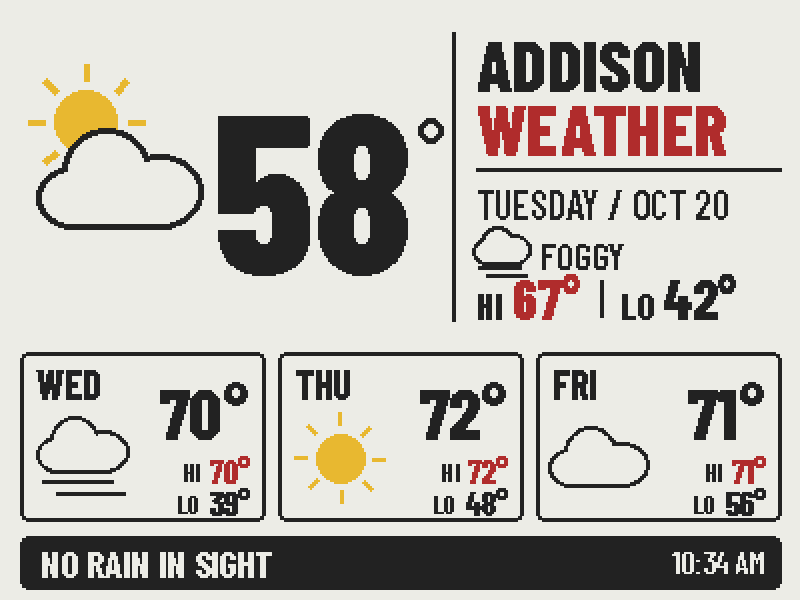
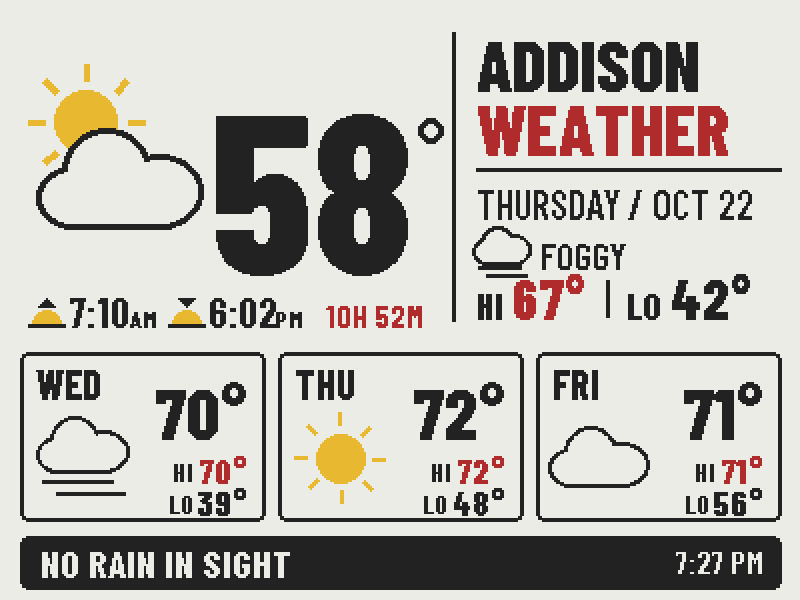
Add sunrise, sunset and daylight row under the hero temperature
Fetch sunrise/sunset from Open-Meteo and draw them beneath the current
temperature with up/down sun markers, followed by the daylight total in
red, matching the updated board mockup. Adds unit tests for the time and
daylight helpers and the drawn row.

diff --git a/renderer/render.py b/renderer/render.py
@@ -45,7 +45,7 @@ def fetch_live():
         "https://api.open-meteo.com/v1/forecast"
         f"?latitude={LAT}&longitude={LON}"
         "&current=temperature_2m,weather_code,is_day"
-        "&daily=weather_code,temperature_2m_max,temperature_2m_min,precipitation_probability_max"
+        "&daily=weather_code,temperature_2m_max,temperature_2m_min,precipitation_probability_max,sunrise,sunset"
         "&temperature_unit=fahrenheit&timezone=America%2FChicago&forecast_days=5"
     )
     req = urllib.request.Request(url, headers={"User-Agent": "note4c-weather/1.0"})
@@ -153,6 +153,15 @@ def umbrella(d, cx, cy, r):
     d.line([cx, cy - r * 0.05, cx, cy + r * 0.55], fill=BLACK, width=2)
 
 
+def sun_marker(d, x, y, rising):
+    """Sunrise/sunset glyph in an 18 x 16 box at (x, y): arrow, yellow half-disc, horizon line."""
+    cx = x + 9
+    tri = [(cx - 4, y + 5), (cx + 4, y + 5), (cx, y + 1)] if rising else [(cx - 4, y + 1), (cx + 4, y + 1), (cx, y + 5)]
+    d.polygon(tri, fill=BLACK)
+    d.pieslice([cx - 7, y + 7, cx + 7, y + 21], 180, 360, fill=YELLOW)
+    d.line([x, y + 14, x + 18, y + 14], fill=BLACK, width=2)
+
+
 # ---------------------------------------------------------------- text helpers
 def text(d, xy, s, f, fill=BLACK, anchor="la"):
     d.text(xy, s, font=f, fill=fill, anchor=anchor)
@@ -161,6 +170,18 @@ def text(d, xy, s, f, fill=BLACK, anchor="la"):
 
 def deg(n):
     return f"{round(n)}°"
+
+
+def clock_parts(iso):
+    """'2026-10-22T07:12' -> ('7:12', 'AM')"""
+    t = datetime.fromisoformat(iso)
+    return t.strftime("%-I:%M"), t.strftime("%p")
+
+
+def daylight_label(sunrise, sunset):
+    """Daylight between two local ISO timestamps, e.g. '10H 47M'."""
+    mins = round((datetime.fromisoformat(sunset) - datetime.fromisoformat(sunrise)).total_seconds() / 60)
+    return f"{mins // 60}H {mins % 60:02d}M"
 
 
 # ---------------------------------------------------------------- banner logic
@@ -202,6 +223,18 @@ def render(data):
     l, tp, r, _ = d.textbbox((206, 92), t, font=tf, anchor="rm")
     text(d, (206, 92), t, tf, anchor="rm")
     d.ellipse([r + 3, tp + 2, r + 15, tp + 14], outline=BLACK, width=3)
+
+    # --- sunrise / sunset / daylight, under the hero
+    if days.get("sunrise") and days.get("sunset"):
+        sr, ss = days["sunrise"][0], days["sunset"][0]
+        y, x = 164, 14  # baseline, left edge
+        for iso, rising in ((sr, True), (ss, False)):
+            sun_marker(d, x, y - 16, rising)
+            x += 20
+            hm, ap = clock_parts(iso)
+            x += text(d, (x, y), hm, font(700, 20), anchor="ls") + 1
+            x += text(d, (x, y), ap, font(700, 12), anchor="ls") + 6
+        text(d, (212, y), daylight_label(sr, ss), font(800, 15), fill=RED, anchor="rs")
 
     # divider
     d.line([226, 16, 226, 160], fill=BLACK, width=2)

diff --git a/renderer/test_render.py b/renderer/test_render.py
@@ -1,0 +1,62 @@
+"""Tests for the renderer. Run: python3 -m unittest -v test_render"""
+import json
+import os
+import sys
+import unittest
+
+HERE = os.path.dirname(os.path.abspath(__file__))
+sys.path.insert(0, HERE)
+import render  # noqa: E402
+
+SUNRISE, SUNSET = "2026-10-22T07:12", "2026-10-22T17:59"
+# Band under the hero temperature that the sun row occupies (x0, y0, x1, y1)
+SUN_STRIP = (0, 140, 222, 174)
+
+
+def sample(with_sun=True):
+    with open(os.path.join(HERE, "sample.json")) as f:
+        d = json.load(f)
+    d["daily"].pop("sunrise", None)
+    d["daily"].pop("sunset", None)
+    if with_sun:
+        d["daily"]["sunrise"] = [f"{t}T07:12" for t in d["daily"]["time"]]
+        d["daily"]["sunset"] = [f"{t}T17:59" for t in d["daily"]["time"]]
+    return d
+
+
+def colors_in(img, box):
+    px = img.load()
+    x0, y0, x1, y1 = box
+    return {px[x, y] for y in range(y0, y1) for x in range(x0, x1)}
+
+
+class ClockParts(unittest.TestCase):
+    def test_morning_time_drops_leading_zero(self):
+        self.assertEqual(render.clock_parts(SUNRISE), ("7:12", "AM"))
+
+    def test_evening_time_uses_twelve_hour_clock(self):
+        self.assertEqual(render.clock_parts(SUNSET), ("5:59", "PM"))
+
+
+class DaylightLabel(unittest.TestCase):
+    def test_hours_and_minutes_between_sunrise_and_sunset(self):
+        self.assertEqual(render.daylight_label(SUNRISE, SUNSET), "10H 47M")
+
+    def test_minutes_are_zero_padded(self):
+        self.assertEqual(render.daylight_label("2026-06-21T05:16", "2026-06-21T20:23"), "15H 07M")
+
+
+class SunRow(unittest.TestCase):
+    def test_sun_icons_are_drawn_in_yellow_under_the_hero(self):
+        self.assertIn(render.YELLOW, colors_in(render.render(sample()), SUN_STRIP))
+
+    def test_daylight_total_is_drawn_in_red_under_the_hero(self):
+        self.assertIn(render.RED, colors_in(render.render(sample()), SUN_STRIP))
+
+    def test_strip_stays_blank_when_feed_has_no_sunrise(self):
+        # Regression guard: an old feed without sunrise/sunset must still render.
+        self.assertEqual(colors_in(render.render(sample(with_sun=False)), SUN_STRIP), {render.WHITE})
+
+
+if __name__ == "__main__":
+    unittest.main()

diff --git a/README.md b/README.md
@@ -18,7 +18,7 @@ renderer/render.py ── Open-Meteo ──► weather.bin ──HTTPS──► 
 3. Settings → Pages → Source: *Deploy from branch* → `gh-pages` / root.
 4. Check `https://<you>.github.io/addison-weather/weather.png` in a browser.
 
-Local test: `pip install -r renderer/requirements.txt && python renderer/render.py` → `renderer/out/`.
+Local test: `pip install -r renderer/requirements.txt && python renderer/render.py` → `renderer/out/`. Tests: `python -m unittest renderer/test_render.py`.
 
 ## 2. Back up the factory firmware (do this once)
 
